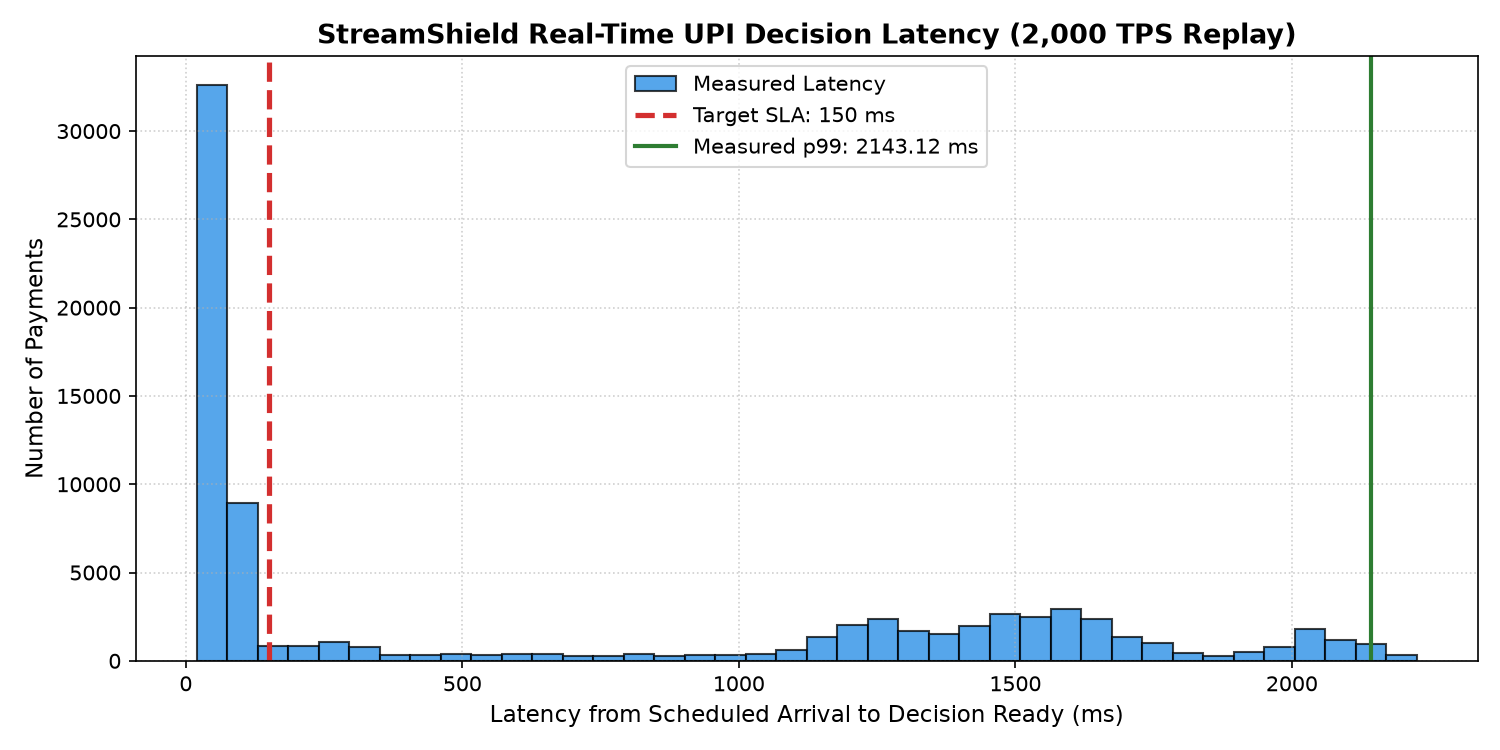
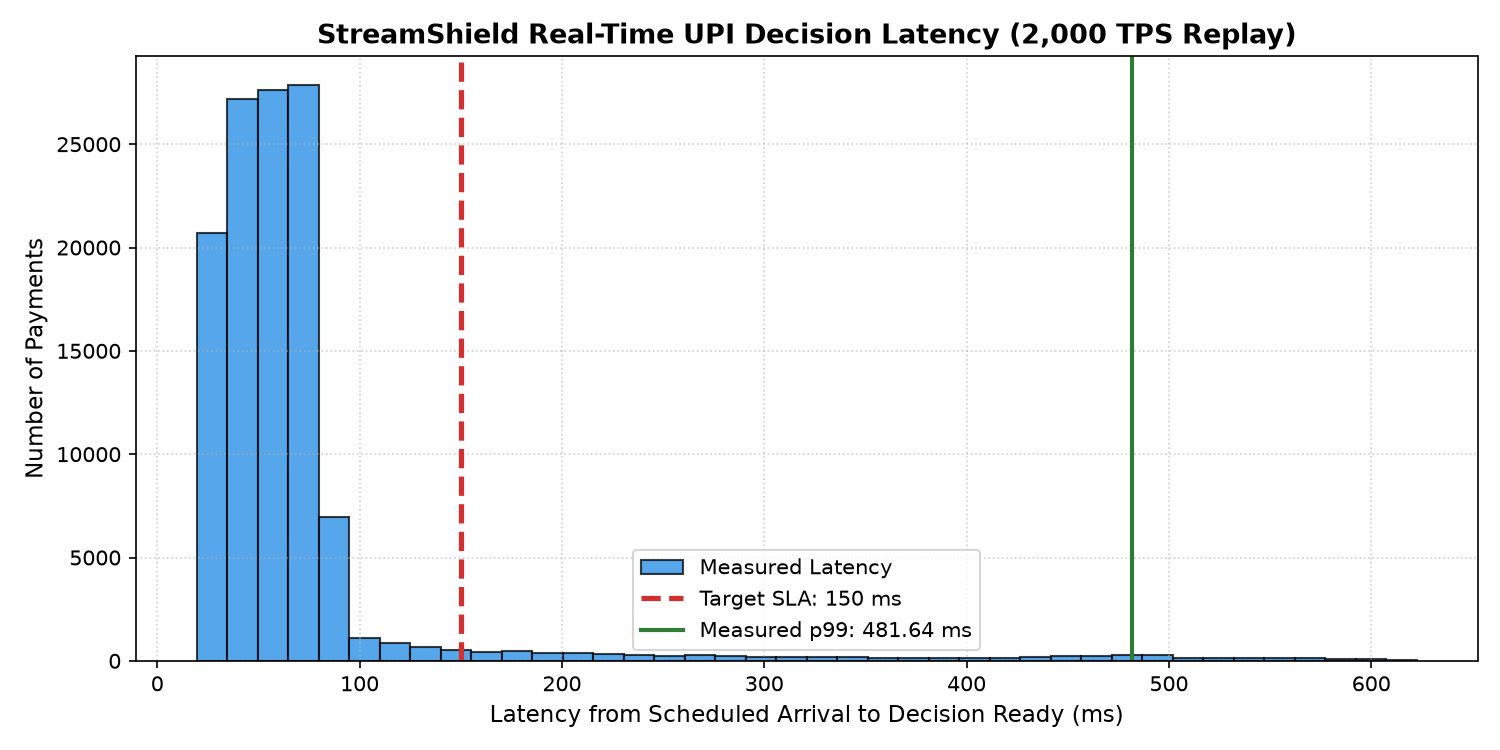
Update pipeline with 1.2M transactions, lakhs/thousands payment tiers, and Dockerfile

diff --git a/src/generator.py b/src/generator.py
@@ -14,15 +14,15 @@ import pandas as pd
 RANDOM_SEED = 42
 
 # Accounts & Activity
-NUM_ACCOUNTS = 20000
+NUM_ACCOUNTS = 35000          # 35,000 unique UPI accounts
 NEW_ACCOUNT_RATIO = 0.15     # 15% of accounts are brand-new (appear late)
 TOTAL_DAYS = 14
 TOTAL_SECONDS = TOTAL_DAYS * 24 * 3600  # 1,209,600 seconds
-NUM_NORMAL_PAYMENTS = 400000 # Normal baseline payments
+NUM_NORMAL_PAYMENTS = 600000 # 600,000 normal baseline payments (1.2M+ total)
 
 # Fraud Settings
-NUM_RINGS = 20               # 20 mule rings per round
-NUM_SCAMS = 150              # 150 social engineering scam payments
+NUM_RINGS = 30               # 30 mule rings per round
+NUM_SCAMS = 220              # 220 social engineering scam payments (<0.1% fraud rate)
 
 CHANNELS = ["UPI_APP", "QR_CODE", "INTENT", "COLLECT_REQUEST", "P2P"]
 CHANNEL_WEIGHTS = [0.45, 0.30, 0.12, 0.08, 0.05]
@@ -79,9 +79,21 @@ def generate_normal_payments(accounts, creation_times, devices, favorites, num_p
     raw_times = np.clip(raw_times, 0, total_seconds - 1)
     raw_times.sort()
     
-    # Sample payment amounts: log-normal distribution (mostly 50 to 1,500 INR, occasionally larger)
-    amounts = np.random.lognormal(mean=5.5, sigma=1.0, size=num_payments)
-    amounts = np.clip(amounts, 10.0, 50000.0)
+    # Sample payment amounts: 3-tier realistic UPI mixture distribution
+    # Tier 1 (65%): Micro-payments (tea, grocery, auto) ₹20 - ₹1,500
+    # Tier 2 (25%): Mid-range transfers & shopping ₹2,000 - ₹18,000
+    # Tier 3 (10%): High-value legitimate transfers (rent, fees, electronics) ₹20,000 - ₹1,20,000 (Lakhs!)
+    tier_choices = np.random.choice([1, 2, 3], size=num_payments, p=[0.65, 0.25, 0.10])
+    
+    t1_amounts = np.random.lognormal(mean=5.2, sigma=0.8, size=num_payments)
+    t1_amounts = np.clip(t1_amounts, 20.0, 1500.0)
+    
+    t2_amounts = np.random.lognormal(mean=8.5, sigma=0.6, size=num_payments)
+    t2_amounts = np.clip(t2_amounts, 2000.0, 18000.0)
+    
+    t3_amounts = np.random.uniform(20000.0, 120000.0, size=num_payments)
+    
+    amounts = np.where(tier_choices == 1, t1_amounts, np.where(tier_choices == 2, t2_amounts, t3_amounts))
     amounts = np.round(amounts, 2)
     
     channels = np.random.choice(CHANNELS, size=num_payments, p=CHANNEL_WEIGHTS)
@@ -153,7 +165,7 @@ def generate_round1_fraud(accounts, devices, total_seconds, txn_offset):
         for feeder in feeders:
             feeder_time = t_base + random.randint(10, 580)
             feeder_times.append(feeder_time)
-            amount = round(random.uniform(5000, 25000), 2)
+            amount = round(random.uniform(15000, 45000), 2)
             total_inflow += amount
             
             fraud_rows.append({
@@ -192,12 +204,12 @@ def generate_round1_fraud(accounts, devices, total_seconds, txn_offset):
             })
             current_txn_id += 1
 
-    # 2. Scam Payments (150 uncharacteristically large first-time transfers)
+    # 2. Scam Payments (Large first-time transfers in thousands and lakhs)
     scam_times = np.linspace(3600, total_seconds - 3600, NUM_SCAMS)
     for s_idx in range(NUM_SCAMS):
         t_scam = int(scam_times[s_idx]) + random.randint(-600, 600)
         victim, scammer = random.sample(accounts, 2)
-        scam_amount = round(random.uniform(25000, 95000), 2)
+        scam_amount = round(random.uniform(45000, 185000), 2)
         
         fraud_rows.append({
             "txn_id": f"txn_{current_txn_id:07d}",
@@ -237,7 +249,7 @@ def generate_round2_fraud(accounts, devices, total_seconds, txn_offset):
         if use_chain:
             # 4-hop chain
             chain_nodes = random.sample(accounts, 4)
-            chain_amount = round(random.uniform(40000, 80000), 2)
+            chain_amount = round(random.uniform(75000, 220000), 2)
             hop_time = t_base
             
             for hop in range(3):
@@ -273,7 +285,7 @@ def generate_round2_fraud(accounts, devices, total_seconds, txn_offset):
             for feeder in feeders:
                 feeder_time = t_base + random.randint(60, 1800)
                 feeder_times.append(feeder_time)
-                amount = round(random.uniform(4000, 20000), 2)
+                amount = round(random.uniform(12000, 38000), 2)
                 total_inflow += amount
                 new_dev = f"dev_drift_{feeder}_{r_idx}"
                 
@@ -316,12 +328,12 @@ def generate_round2_fraud(accounts, devices, total_seconds, txn_offset):
                 })
                 current_txn_id += 1
                 
-    # 150 Scam Payments for Round 2
+    # Scam Payments for Round 2 in thousands and lakhs
     scam_times = np.linspace(3600, total_seconds - 3600, NUM_SCAMS)
     for s_idx in range(NUM_SCAMS):
         t_scam = int(scam_times[s_idx]) + random.randint(-600, 600)
         victim, scammer = random.sample(accounts, 2)
-        scam_amount = round(random.uniform(30000, 110000), 2)
+        scam_amount = round(random.uniform(40000, 160000), 2)
         fraud_rows.append({
             "txn_id": f"txn_{current_txn_id:07d}",
             "time": t_scam,

diff --git a/ARCHITECTURE.md b/ARCHITECTURE.md
@@ -227,3 +227,4 @@ flowchart TD
 | **8** | [`app/dashboard.py`](file:///c:/Users/syedm/OneDrive/Desktop/streamshield/app/dashboard.py) | `decisions.jsonl`, `rings.json`, `metrics.json` | Streamlit interactive UI | 6-panel live operations dashboard for evaluators |
 | **9** | [`src/round2.py`](file:///c:/Users/syedm/OneDrive/Desktop/streamshield/src/round2.py) | `features_round2.csv`, models | 3-row evaluation table | Demonstrates sub-second online recalibration on 5% sample (no full retrain) |
 | **10** | [`run_all.py`](file:///c:/Users/syedm/OneDrive/Desktop/streamshield/run_all.py) | All component modules | Full project verification | One-click master orchestrator running all 6 stages sequentially |
+
